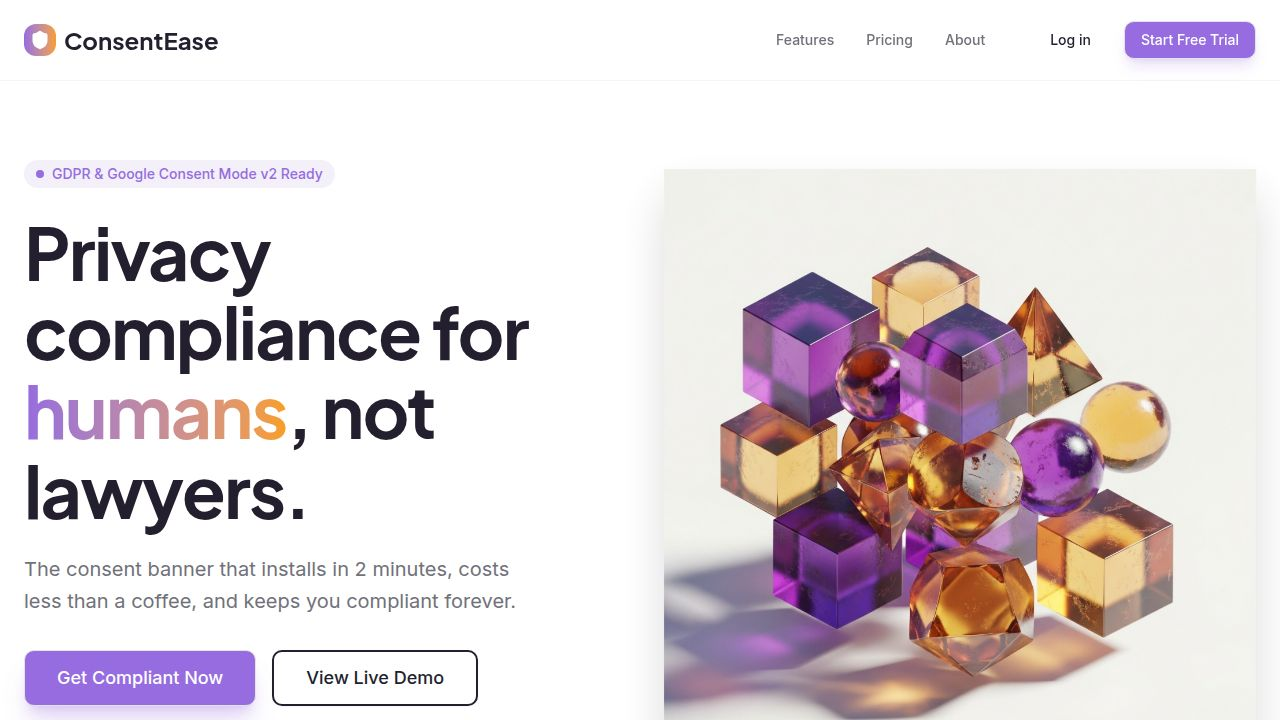
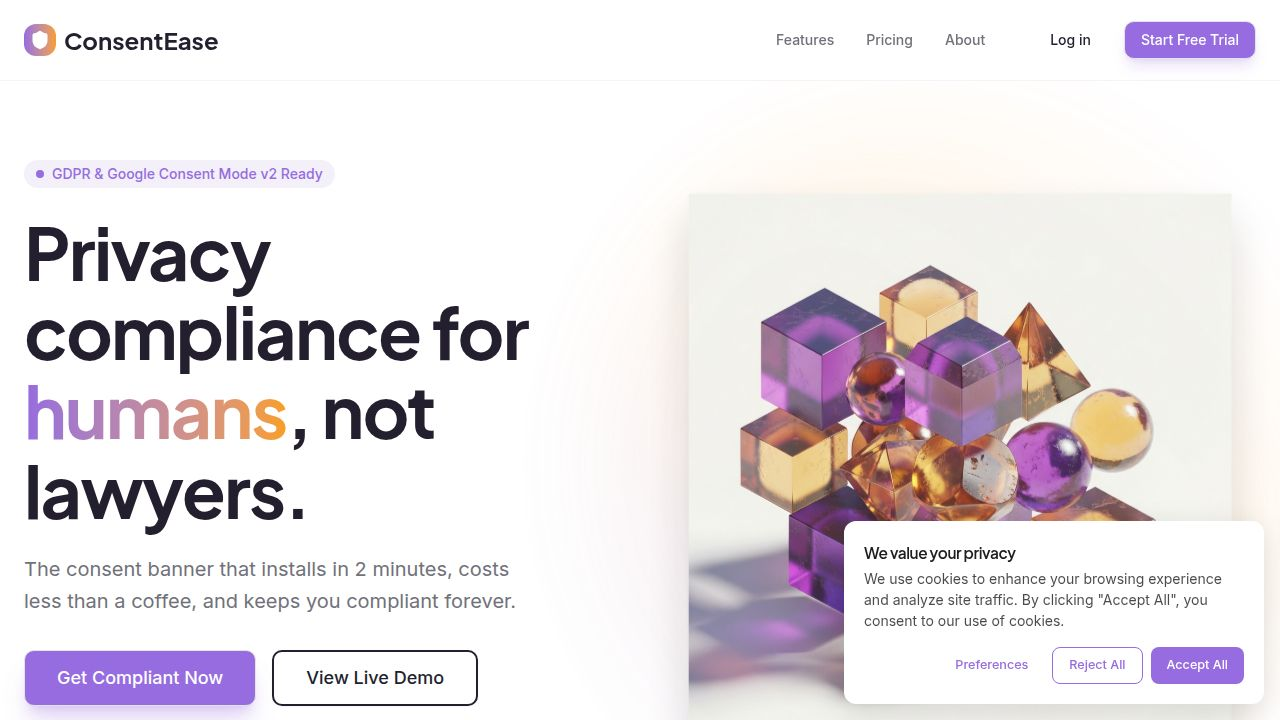
Update project tasks in ClickUp to reflect completed work
Create a new script to synchronize completed tasks from the project with ClickUp, updating their statuses and adding relevant comments.

Replit-Commit-Author: Agent
Replit-Commit-Session-Id: e6bf4a84-7281-4ba5-b399-104e1bf6077d
Replit-Commit-Checkpoint-Type: full_checkpoint
Replit-Commit-Event-Id: c8297b29-45d9-49f1-b8e3-60c8df9a153d
Replit-Commit-Screenshot-Url: https://storage.googleapis.com/screenshot-production-us-central1/d78fa0c6-228e-4132-85d8-0130d3fb0506/e6bf4a84-7281-4ba5-b399-104e1bf6077d/K8ln8NA
Replit-Helium-Checkpoint-Created: true

Changed region(s): [[0.5, 0.3361, 0.9688, 1.0]]

diff --git a/scripts/sync-clickup-progress.ts b/scripts/sync-clickup-progress.ts
@@ -1,0 +1,142 @@
+const CLICKUP_API_KEY = process.env.CLICKUP_API_KEY;
+const FOLDER_ID = '901512713527';
+
+interface TaskUpdate {
+  name: string;
+  status: 'DONE' | 'COMPLETE' | 'DOING' | 'TO DO';
+  comment?: string;
+}
+
+const completedTasks: TaskUpdate[] = [
+  { name: "Privacy Policy pagina", status: "COMPLETE", comment: "Implemented at /privacy with full GDPR/CCPA content" },
+  { name: "Terms of Service pagina", status: "COMPLETE", comment: "Implemented at /terms with platform terms" },
+  { name: "Cookie Policy pagina", status: "COMPLETE", comment: "Implemented at /cookies with cookie usage info" },
+  { name: "FAQ pagina", status: "COMPLETE", comment: "Implemented at /faq with accordion component" },
+  { name: "Contact pagina", status: "COMPLETE", comment: "Implemented at /contact with form and support info" },
+  { name: "Documentatie/Help Center", status: "COMPLETE", comment: "Implemented at /docs with tabbed setup guides" },
+  { name: "Wachtwoord vergeten flow", status: "COMPLETE", comment: "Password reset with secure tokens, email delivery via Resend, 1-hour expiry" },
+  { name: "Email verificatie", status: "COMPLETE", comment: "Email verification with tokens, 24-hour expiry, verification page" },
+  { name: "Rate limiting implementeren", status: "COMPLETE", comment: "Rate limiting on auth (10/15min), password reset (5/hour), API (100/min), contact (5/hour)" },
+  { name: "Gratis proefperiode implementatie", status: "COMPLETE", comment: "7-day trial configured in Stripe for Solo plan" },
+];
+
+async function makeRequest(url: string, options: RequestInit = {}) {
+  const response = await fetch(url, {
+    ...options,
+    headers: {
+      'Authorization': CLICKUP_API_KEY!,
+      'Content-Type': 'application/json',
+      ...options.headers,
+    },
+  });
+  
+  if (!response.ok) {
+    const error = await response.text();
+    throw new Error(`ClickUp API Error: ${response.status} - ${error}`);
+  }
+  
+  return response.json();
+}
+
+async function getListsInFolder(folderId: string) {
+  const data = await makeRequest(`https://api.clickup.com/api/v2/folder/${folderId}/list`);
+  return data.lists;
+}
+
+async function getTasksInList(listId: string) {
+  const data = await makeRequest(`https://api.clickup.com/api/v2/list/${listId}/task?include_closed=true`);
+  return data.tasks || [];
+}
+
+async function updateTaskStatus(taskId: string, status: string) {
+  const data = await makeRequest(`https://api.clickup.com/api/v2/task/${taskId}`, {
+    method: 'PUT',
+    body: JSON.stringify({ status }),
+  });
+  return data;
+}
+
+async function addComment(taskId: string, comment: string) {
+  const data = await makeRequest(`https://api.clickup.com/api/v2/task/${taskId}/comment`, {
+    method: 'POST',
+    body: JSON.stringify({ comment_text: comment }),
+  });
+  return data;
+}
+
+function normalizeTaskName(name: string): string {
+  return name.toLowerCase().trim();
+}
+
+async function main() {
+  if (!CLICKUP_API_KEY) {
+    console.error('CLICKUP_API_KEY is not set');
+    process.exit(1);
+  }
+
+  console.log('🔄 Syncing ConsentEase progress to ClickUp...\n');
+
+  const lists = await getListsInFolder(FOLDER_ID);
+  console.log(`Found ${lists.length} lists\n`);
+
+  const taskUpdatesMap = new Map<string, TaskUpdate>();
+  for (const update of completedTasks) {
+    taskUpdatesMap.set(normalizeTaskName(update.name), update);
+  }
+
+  let updatedCount = 0;
+  let notFoundCount = 0;
+  const foundTasks = new Set<string>();
+
+  for (const list of lists) {
+    console.log(`\n📋 Checking list: ${list.name}`);
+    
+    const tasks = await getTasksInList(list.id);
+
+    for (const task of tasks) {
+      const normalizedName = normalizeTaskName(task.name);
+      const update = taskUpdatesMap.get(normalizedName);
+      
+      if (update) {
+        foundTasks.add(normalizedName);
+        const currentStatus = task.status?.status?.toUpperCase() || '';
+        
+        if (currentStatus === update.status) {
+          console.log(`  ⏭️  Already ${update.status}: ${task.name}`);
+          continue;
+        }
+
+        try {
+          await updateTaskStatus(task.id, update.status);
+          console.log(`  ✅ Updated to ${update.status}: ${task.name}`);
+          
+          if (update.comment) {
+            await addComment(task.id, `✅ Completed on ${new Date().toLocaleDateString('nl-BE')}\n\n${update.comment}`);
+            console.log(`     💬 Added completion comment`);
+          }
+          
+          updatedCount++;
+          await new Promise(resolve => setTimeout(resolve, 150));
+        } catch (error) {
+          console.error(`  ❌ Failed to update: ${task.name}`, error);
+        }
+      }
+    }
+  }
+
+  for (const update of completedTasks) {
+    if (!foundTasks.has(normalizeTaskName(update.name))) {
+      console.log(`\n⚠️  Task not found in ClickUp: ${update.name}`);
+      notFoundCount++;
+    }
+  }
+
+  console.log(`\n${'='.repeat(50)}`);
+  console.log(`✅ Updated ${updatedCount} tasks to completed status`);
+  if (notFoundCount > 0) {
+    console.log(`⚠️  ${notFoundCount} tasks were not found in ClickUp`);
+  }
+  console.log(`${'='.repeat(50)}`);
+}
+
+main().catch(console.error);